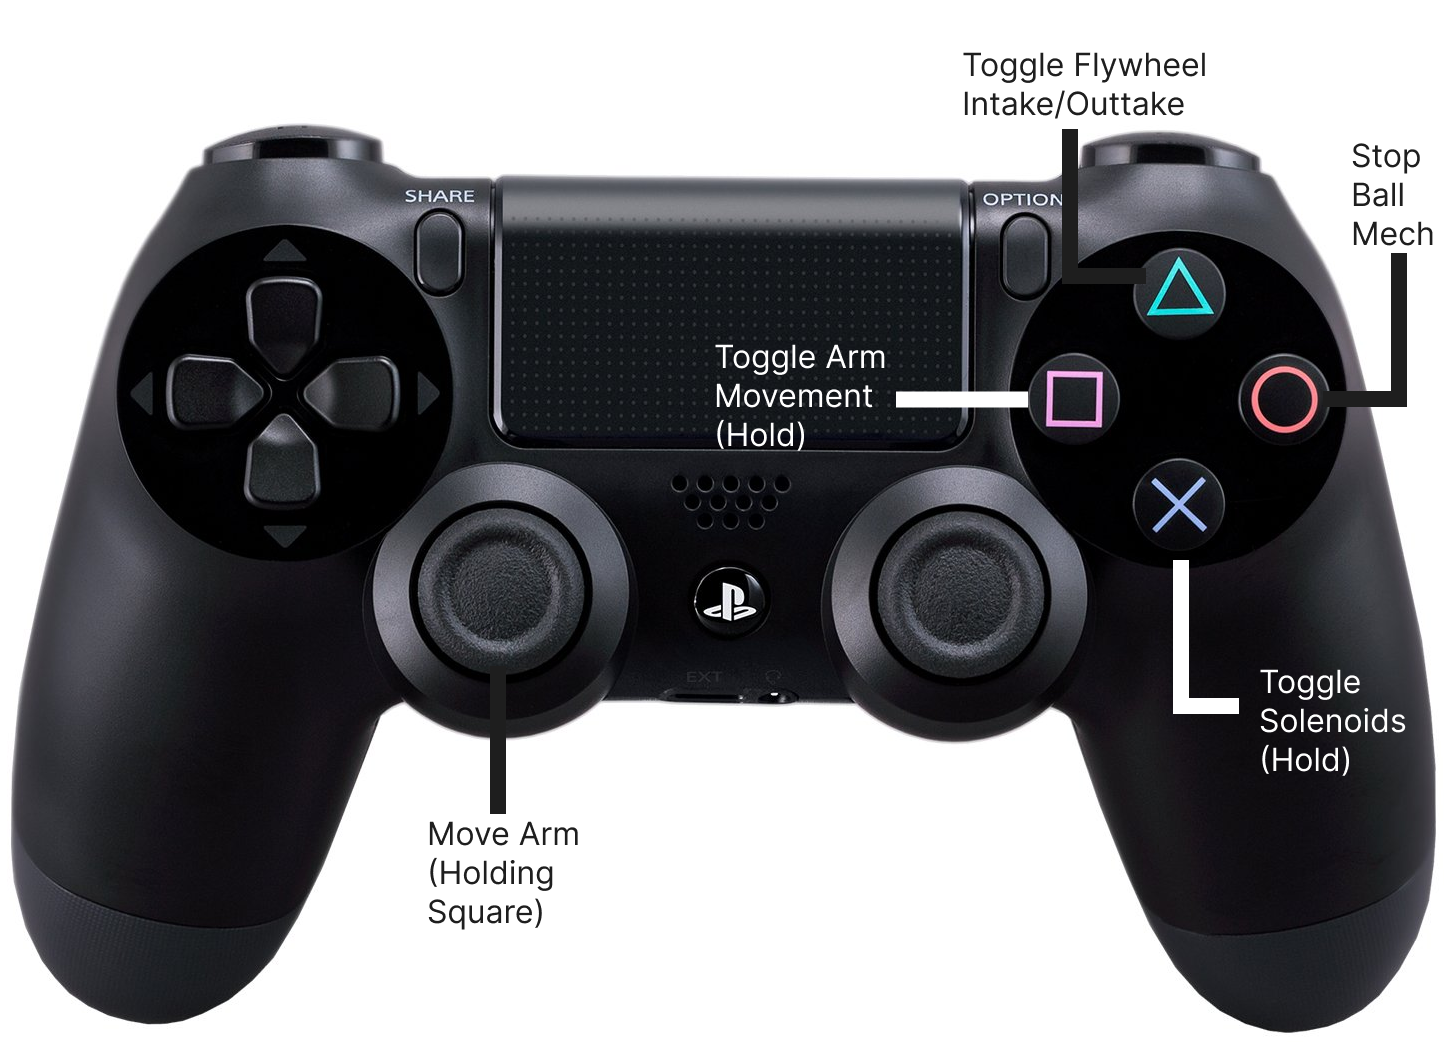
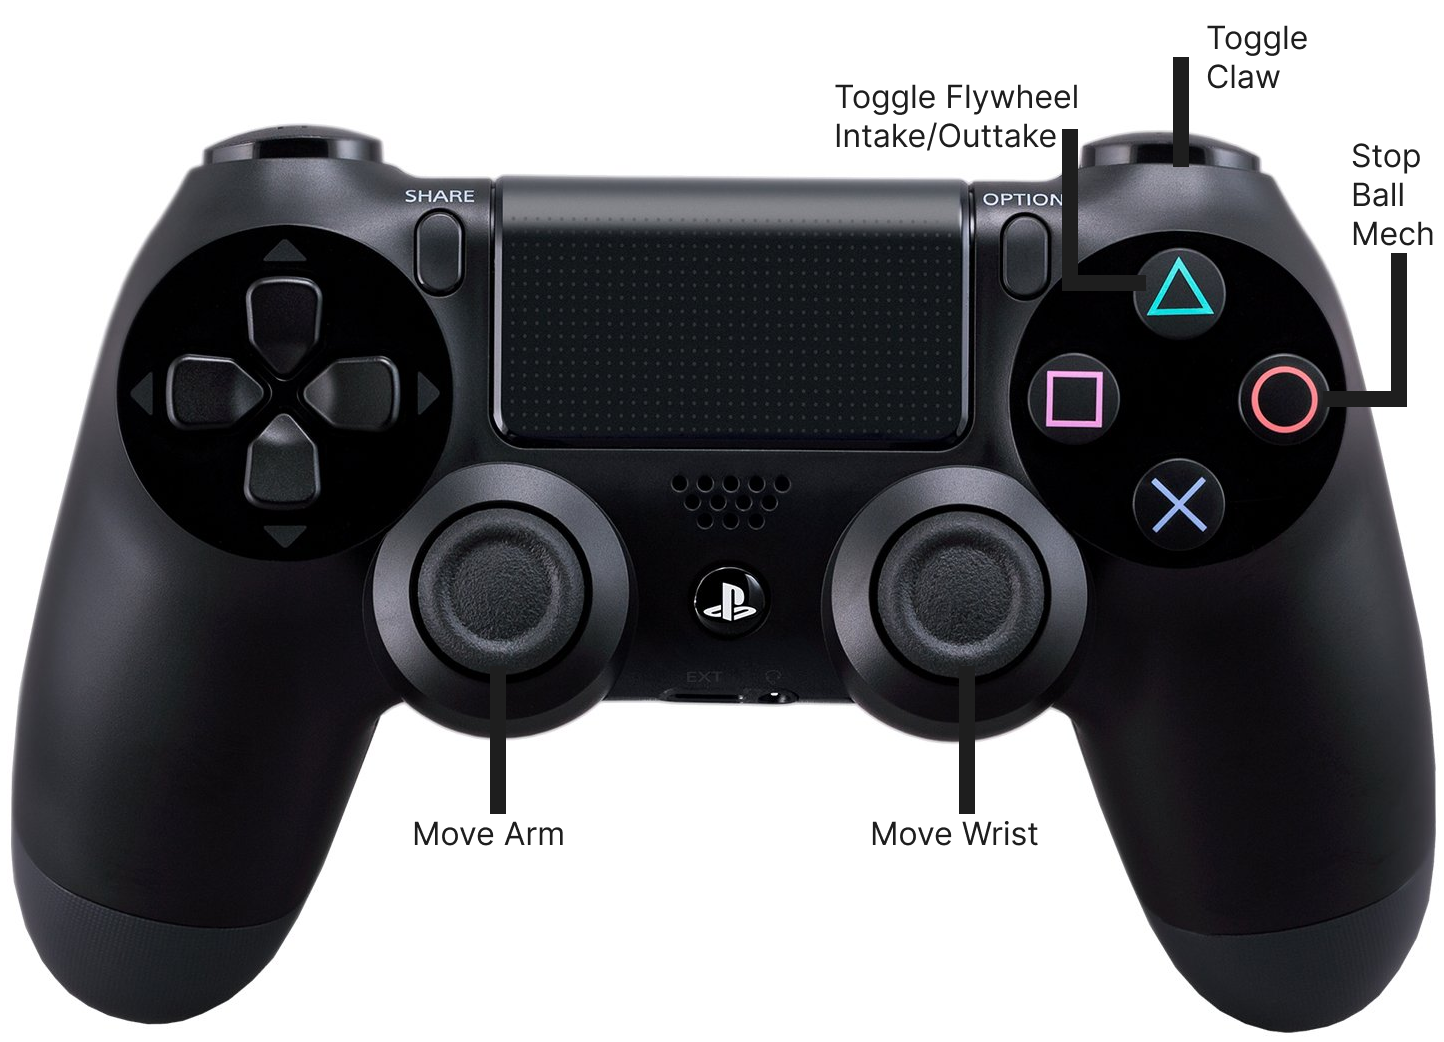
finished pneumatics and command code

diff --git a/src/main/java/frc/robot/RobotContainer.java b/src/main/java/frc/robot/RobotContainer.java
@@ -14,15 +14,18 @@ import frc.robot.subsystems.DriveSubsystem;
 
 //  Arm Subsystem
 import frc.robot.commands.MoveArmCommand;
+import frc.robot.commands.MoveWristCommand;
 import frc.robot.commands.CloseArmCommand;
 import frc.robot.commands.OpenArmCommand;
 import frc.robot.commands.StopArmCommand;
 import frc.robot.subsystems.ArmSubsystem;
 import frc.robot.subsystems.ClawSubsystem;
+import frc.robot.subsystems.PneumaticSubsystem;
 
 //  Ball Mechanism
 import frc.robot.commands.DefaultBallCommand;
 import frc.robot.commands.StopBallCommand;
+import frc.robot.commands.StopWristCommand;
 import frc.robot.subsystems.BallSubsystem;
 
 //  Control System
@@ -47,6 +50,7 @@ public class RobotContainer {
     public final ArmSubsystem m_armSubsystem = new ArmSubsystem();
     public final BallSubsystem m_ballSubsystem = new BallSubsystem();
     public final ClawSubsystem m_clawSubsystem = new ClawSubsystem();
+    private final PneumaticSubsystem m_pneumaticSubsystem = new PneumaticSubsystem();
 
     // Create the controllers
     private static CommandPS5Controller driver;
@@ -55,11 +59,9 @@ public class RobotContainer {
     // Triggers
     private Trigger crossTankTrigger;
     private Trigger circleArcadeTrigger;
-    private Trigger crossTrigger;
-    private Trigger squareTrigger;
+    private Trigger r1Trigger;
     private Trigger circleTrigger;
     private Trigger triangleTrigger;
-    private Trigger l1Trigger;
   
     /** The container for the robot. Contains subsystems, OI devices, and commands. */
     public RobotContainer() {  
@@ -71,11 +73,9 @@ public class RobotContainer {
       crossTankTrigger = driver.cross();
       circleArcadeTrigger = driver.circle();
 
-      crossTrigger = operator.cross();
-      squareTrigger = operator.square();
+      r1Trigger = operator.R1();
       circleTrigger = operator.circle();
       triangleTrigger = operator.triangle();
-      l1Trigger = operator.L1();
 
       // Configure the trigger bindings
       configureBindings();
@@ -83,6 +83,8 @@ public class RobotContainer {
       // The base command that is always running is the moving command
       // Default is Tank
       CommandScheduler.getInstance().setDefaultCommand(m_driveSubsystem, new TankDriveCommand(m_driveSubsystem));
+      CommandScheduler.getInstance().setDefaultCommand(m_armSubsystem, new MoveArmCommand(m_armSubsystem));
+      CommandScheduler.getInstance().setDefaultCommand(m_clawSubsystem, new MoveWristCommand(m_clawSubsystem));
     }
   
     /**
@@ -100,14 +102,8 @@ public class RobotContainer {
       crossTankTrigger.onTrue(new TankDriveCommand(m_driveSubsystem));
       circleArcadeTrigger.onTrue(new ArcadeDriveCommand(m_driveSubsystem));
       
-      crossTrigger.whileTrue(new OpenArmCommand(m_clawSubsystem));
-      crossTrigger.whileFalse(new CloseArmCommand(m_clawSubsystem));
-
-      squareTrigger.whileTrue(new MoveArmCommand(m_armSubsystem));
-      squareTrigger.whileFalse(new StopArmCommand(m_armSubsystem));
-
-      l1Trigger.whileTrue(new DefaultBallCommand(m_ballSubsystem));
-      l1Trigger.whileFalse(new MoveArmCommand(m_armSubsystem));
+      r1Trigger.onTrue(new CloseArmCommand(m_pneumaticSubsystem));
+      r1Trigger.onFalse(new OpenArmCommand(m_pneumaticSubsystem));
 
       triangleTrigger.whileTrue(new DefaultBallCommand(m_ballSubsystem));
 

diff --git a/src/main/java/frc/robot/subsystems/DriveSubsystem.java b/src/main/java/frc/robot/subsystems/DriveSubsystem.java
@@ -14,13 +14,10 @@ public class DriveSubsystem extends SubsystemBase {
   /** Creates a new DriveSubsystem. */
   public DriveSubsystem() {
     // Create the motors with the assigned port that we listed in the constants file
-    m_left1 = new WPI_VictorSPX(OperatorConstants.MOTORCONTROLPORTL1);
-    m_left2 = new WPI_VictorSPX(OperatorConstants.MOTORCONTROLPORTL2);
-    m_right1 = new WPI_VictorSPX(OperatorConstants.MOTORCONTROLPORTR1);
-    m_right2 = new WPI_VictorSPX(OperatorConstants.MOTORCONTROLPORTR2);
-
-    //Invert right side of the motors
-    m_right1.setInverted(true);
+    m_left1 = new WPI_VictorSPX(OperatorConstants.DRIVEL1);
+    m_left2 = new WPI_VictorSPX(OperatorConstants.DRIVEL2);
+    m_right1 = new WPI_VictorSPX(OperatorConstants.DRIVER1);
+    m_right2 = new WPI_VictorSPX(OperatorConstants.DRIVER2);
 
     // This will ensure that the motors on the same side share power output
     // Prevents the possibility that programmers forget to power both sides
@@ -45,6 +42,7 @@ public class DriveSubsystem extends SubsystemBase {
       m_speed1 = 0;
     }
     m_speed1 += leftStickInput * DriveConstants.ACCELERATION_CONSTANT;
+    System.out.println(m_speed1);
     m_left1.set(MathUtil.clamp(m_speed1, -1.0, 1.0) * -1);
   }
 
@@ -55,6 +53,7 @@ public class DriveSubsystem extends SubsystemBase {
       m_speed2 = 0;
     }
     m_speed2 += rightStickInput * DriveConstants.ACCELERATION_CONSTANT;
+    System.out.println(m_speed2);
     m_right1.set(MathUtil.clamp(m_speed2, -1.0, 1.0));
   }
 

diff --git a/src/main/java/frc/robot/Constants.java b/src/main/java/frc/robot/Constants.java
@@ -18,25 +18,26 @@ public final class Constants {
     public static final int OPERATORCONTROLLERPORT = 1;
 
     //Motor Controller Ports
-    public static final int MOTORCONTROLPORTL1 = 9;
-    public static final int MOTORCONTROLPORTL2 = 1;
-    public static final int MOTORCONTROLPORTR1 = 3;
-    public static final int MOTORCONTROLPORTR2 = 4;
+    public static final int DRIVEL1 = 9;
+    public static final int DRIVEL2 = 1;
+    public static final int DRIVER1 = 3;
+    public static final int DRIVER2 = 4;
 
     //Arm
-    public static final int MOTORCONTROLPORTA1 = 8;
-    public static final int MOTORCONTROLPORTA2 = 10;
-    public static final int MOTORCONTROLPORTA3 = 2;
+    public static final int ARM1 = 8;
+    public static final int ARM2 = 10;
+    public static final int ARM3 = 2;
     
     public static final int PNEUMATICPORT1 = 0;
     public static final int PNEUMATICPORT2 = 1;
     
     // BALL
-    public static final int MOTORCONTROLBALL = 6;
+    public static final int BALLMOTOR = 6;
   }
   public static class DriveConstants {
-    public static final double ACCELERATION_CONSTANT = 0.04;
-    public static final double ARM_SPEED = 0.5;
-    public static final double WRIST_SPEED = 0.2;
+    public static final double ACCELERATION_CONSTANT = 0.02;
+    public static final double ARM_SPEED = 0.35;
+    public static final double WRIST_SPEED = 0.35;
+    public static final double INTAKE_SPEED = 0.45;
   }
 }

diff --git a/src/main/java/frc/robot/subsystems/PneumaticSubsystem.java b/src/main/java/frc/robot/subsystems/PneumaticSubsystem.java
@@ -1,23 +1,31 @@
 package frc.robot.subsystems;
 
 import edu.wpi.first.wpilibj2.command.SubsystemBase;
-
-import com.ctre.phoenix.motorcontrol.can.WPI_VictorSPX;
+import edu.wpi.first.wpilibj.DoubleSolenoid;
+import edu.wpi.first.wpilibj.DoubleSolenoid.Value;
+import edu.wpi.first.wpilibj.PneumaticsModuleType;
 
 import frc.robot.Constants.OperatorConstants;
-import frc.robot.Constants.DriveConstants;
 
-public class ClawSubsystem extends SubsystemBase{
+public class PneumaticSubsystem extends SubsystemBase{
     // Variables
-    private WPI_VictorSPX m_armMotorU;
+    private DoubleSolenoid m_solenoid;
+
+    //private DoubleSolenoid m_solenoid;
 
     //Public constructor
-    public ClawSubsystem(){
-        m_armMotorU = new WPI_VictorSPX(OperatorConstants.ARM3);
+    public PneumaticSubsystem(){
+        m_solenoid = new DoubleSolenoid(PneumaticsModuleType.CTREPCM, OperatorConstants.PNEUMATICPORT1, OperatorConstants.PNEUMATICPORT2);
+        m_solenoid.set(Value.kReverse);
     }
 
-    public void moveWrist(double value){
-        m_armMotorU.set(value*DriveConstants.WRIST_SPEED);
+    // Change Solenoid values to open/close arm 
+    public void openArm(){
+        m_solenoid.set(Value.kForward);
+    }
+
+    public void closeArm(){
+        m_solenoid.set(Value.kReverse);
     }
     
   /**

diff --git a/src/main/java/frc/robot/subsystems/ArmSubsystem.java b/src/main/java/frc/robot/subsystems/ArmSubsystem.java
@@ -1,9 +1,6 @@
 package frc.robot.subsystems;
 
 import edu.wpi.first.wpilibj2.command.SubsystemBase;
-import edu.wpi.first.wpilibj.DoubleSolenoid;
-import edu.wpi.first.wpilibj.DoubleSolenoid.Value;
-import edu.wpi.first.wpilibj.PneumaticsModuleType;
 
 import com.ctre.phoenix.motorcontrol.can.WPI_VictorSPX;
 
@@ -22,15 +19,15 @@ public class ArmSubsystem extends SubsystemBase{
 
     //Public constructor
     public ArmSubsystem(){
-        m_armMotor1 = new WPI_VictorSPX(OperatorConstants.MOTORCONTROLPORTA1);
-        m_armMotor2 = new WPI_VictorSPX(OperatorConstants.MOTORCONTROLPORTA2);
+        m_armMotor1 = new WPI_VictorSPX(OperatorConstants.ARM1);
+        m_armMotor2 = new WPI_VictorSPX(OperatorConstants.ARM2);
 
         m_armMotor1.setInverted(true);
         m_armMotor2.follow(m_armMotor1);
     }
 
     // Move the arm up and down
-    public void moveArm(double value, double value2){
+    public void moveArm(double value){
       //Stop if at min/max location
         m_armMotor1.set(value*DriveConstants.ARM_SPEED);
     }

diff --git a/src/main/java/frc/robot/commands/CloseArmCommand.java b/src/main/java/frc/robot/commands/CloseArmCommand.java
@@ -1,6 +1,6 @@
 package frc.robot.commands;
 
-import frc.robot.subsystems.ClawSubsystem;
+import frc.robot.subsystems.PneumaticSubsystem;
 import edu.wpi.first.wpilibj2.command.Command;
 
 // Open Arm Command, goes up and down, coral pickup and dropoff in a different func
@@ -8,10 +8,10 @@ public class CloseArmCommand extends Command{
     @SuppressWarnings({"PMD.UnusedPrivateField", "PMD.SingularField"})
 
     // Variables
-    private final ClawSubsystem m_subsystem;
+    private final PneumaticSubsystem m_subsystem;
 
 
-    public CloseArmCommand(ClawSubsystem subsystem) {
+    public CloseArmCommand(PneumaticSubsystem subsystem) {
         m_subsystem = subsystem;
         addRequirements(m_subsystem);
     }

diff --git a/src/main/java/frc/robot/commands/OpenArmCommand.java b/src/main/java/frc/robot/commands/OpenArmCommand.java
@@ -1,6 +1,6 @@
 package frc.robot.commands;
 
-import frc.robot.subsystems.ClawSubsystem;
+import frc.robot.subsystems.PneumaticSubsystem;
 import edu.wpi.first.wpilibj2.command.Command;
 
 // Open Arm Command, goes up and down, coral pickup and dropoff in a different func
@@ -8,10 +8,10 @@ public class OpenArmCommand extends Command{
     @SuppressWarnings({"PMD.UnusedPrivateField", "PMD.SingularField"})
 
     // Variables
-    private final ClawSubsystem m_subsystem;
+    private final PneumaticSubsystem m_subsystem;
 
 
-    public OpenArmCommand(ClawSubsystem subsystem) {
+    public OpenArmCommand(PneumaticSubsystem subsystem) {
         m_subsystem = subsystem;
         addRequirements(m_subsystem);
     }

diff --git a/src/main/java/frc/robot/subsystems/BallSubsystem.java b/src/main/java/frc/robot/subsystems/BallSubsystem.java
@@ -5,6 +5,7 @@
 package frc.robot.subsystems;
 
 import edu.wpi.first.wpilibj2.command.SubsystemBase;
+import frc.robot.Constants.DriveConstants;
 import frc.robot.Constants.OperatorConstants;
 
 import com.ctre.phoenix.motorcontrol.can.WPI_VictorSPX;
@@ -15,12 +16,12 @@ public class BallSubsystem extends SubsystemBase {
   /** Creates a new Ball. */
 
   public BallSubsystem() {
-    claw = new WPI_VictorSPX(OperatorConstants.MOTORCONTROLBALL);
+    claw = new WPI_VictorSPX(OperatorConstants.BALLMOTOR);
   }
 
   public void invertClaw() {
     if(claw.get() == 0.0){
-      claw.set(-1.0);
+      claw.set(-DriveConstants.INTAKE_SPEED);
     }
     claw.setInverted(!claw.getInverted());
   }

diff --git a/src/main/java/frc/robot/commands/ArcadeDriveCommand.java b/src/main/java/frc/robot/commands/ArcadeDriveCommand.java
@@ -27,8 +27,8 @@ public class ArcadeDriveCommand extends Command {
   // Called every time the scheduler runs while the command is scheduled.
   @Override
   public void execute() {
-      m_subsystem.setAcceleratingLeftMotors(-1 * (m_controller.getLeftY() + m_controller.getLeftX()));
-      m_subsystem.setAcceleratingRightMotors(-1 * (m_controller.getLeftY() - m_controller.getLeftX()));
+      m_subsystem.setAcceleratingLeftMotors(1 * (m_controller.getLeftY() + m_controller.getLeftX()));
+      m_subsystem.setAcceleratingRightMotors(1 * (m_controller.getLeftY() - m_controller.getLeftX()));
   }
 
   // Called once finished

diff --git a/src/main/java/frc/robot/commands/MoveArmCommand.java b/src/main/java/frc/robot/commands/MoveArmCommand.java
@@ -27,8 +27,7 @@ public class MoveArmCommand extends Command{
     @Override
     public void execute(){
         double speed = m_controller.getLeftY();
-        double jointSpeed = m_controller.getRightY();
-        m_subsystem.moveArm(speed, jointSpeed);
+        m_subsystem.moveArm(speed);
     }
     
     // Called once the command ends or is interrupted.

diff --git a/src/main/java/frc/robot/commands/MoveWristCommand.java b/src/main/java/frc/robot/commands/MoveWristCommand.java
@@ -26,7 +26,7 @@ public class MoveWristCommand extends Command{
     // Called every time the scheduler runs while the command is scheduled.
     @Override
     public void execute(){
-        double speed = m_controller.getLeftY();
+        double speed = m_controller.getRightY();
         m_subsystem.moveWrist(speed);
     }
     
